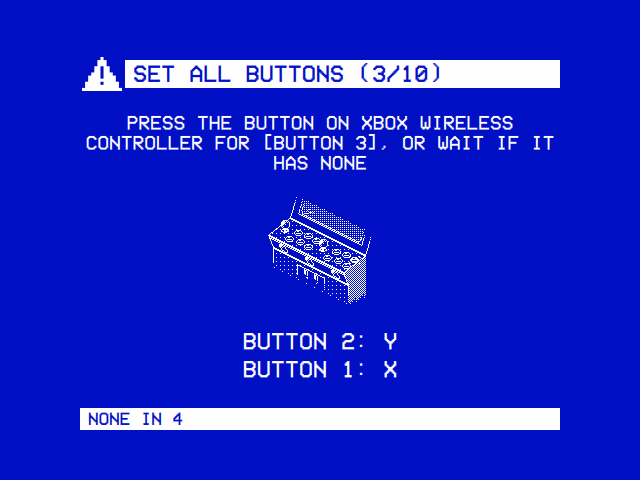
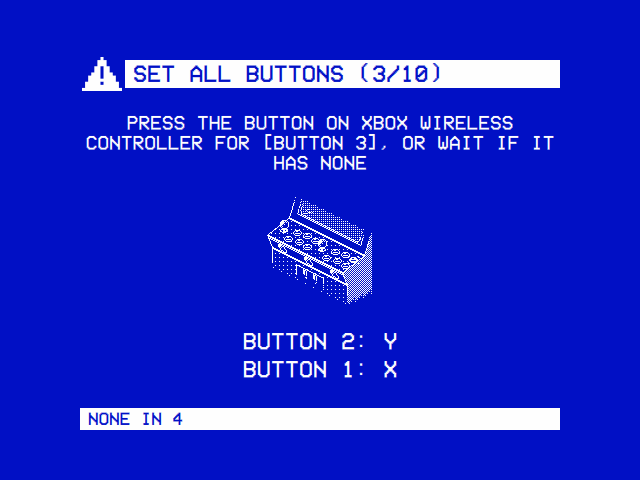
feat: Arcade Buttons dithers the cabinet's side beside the monitor too
The dithered right side of the cabinet now goes up beside the monitor as
well: from the cabinet's front (up the bezel, along the panel's top and
down both fronts) back as far as the bezel's top, fading out above and
below with the rest of the cabinet. The drawing is 105 by 107 cells, and
the page's lines leave it the two more columns.

The two Arcade Buttons screenshots are retaken; Controls describes the
side beside the monitor.

Changed region(s): [[0.4062, 0.4062, 0.5938, 0.625]]

diff --git a/views/Components/ArcadePanelArt.js b/views/Components/ArcadePanelArt.js
@@ -10,9 +10,9 @@
 // buttons, 1P START, COIN and 2P START. Behind the panel the monitor leans
 // back, its bezel round the foot of the screen; under it the cabinet's front
 // goes straight down past the top of the coin door. The cabinet's right side,
-// from the panel's end down, is shaded in a dither. The cabinet fades out
-// above and below. One player's side can be lit: a button, COIN or that
-// player's START.
+// beside the monitor, the panel's end and the front, is shaded in a dither.
+// The cabinet fades out above and below. One player's side can be lit: a
+// button, COIN or that player's START.
 //
 // draw() lays it out on a grid of cells, one art pixel each: 0 for none
 // (the ground the host draws on shows), 1 for ink, 2 for the ground drawn
@@ -21,7 +21,7 @@
 // (from above) has more of it.
 
 // The grid.
-var width = 103
+var width = 105
 var height = 107
 
 // Isometric 2:1: along the panel (u, the players' left to right) a cell
@@ -411,15 +411,16 @@ function draw(lit, player) {
     drawCabinet(grid)
 
     // The panel's front, in shade, with the strip along its top; the
-    // cabinet's right side, from the top's back edge down past the panel
-    // front's foot to the cabinet front's, in a dither and no outline, fading
-    // out below with the front (a cell's height: of the point of the side it
-    // shows); the top over them.
+    // cabinet's right side, from its front (up the monitor's bezel, along the
+    // top and down both fronts) back as far as the bezel's top, in a dither
+    // and no outline, fading out above and below with the cabinet (a cell's
+    // height: of the point of the side it shows); the top over them.
     var front = face.quad(0, L, 0, 1)
     grid.paint(front, ground)
     grid.edge(front)
     grid.line(face.at(0, strip / frontHeight), face.at(L, strip / frontHeight), 1)
-    var flank = polygon([face.at(L, 0), deck.at(L, 1), project(L, D, -frontHeight - below), low.at(L, 1), face.at(L, 1)])
+    var flank = polygon([face.at(L, 0), deck.at(L, 1), bezel.at(L, 1), project(L, D + lean, -frontHeight - below),
+                         low.at(L, 1), face.at(L, 1)])
     var corner = project(L, 0, 0)
     grid.paint(flank, half)
     grid.tag(flank, function(x, y) { return corner.y - (x - corner.x) / 2 - y })

diff --git a/docs/wiki/Controls.md b/docs/wiki/Controls.md
@@ -321,7 +321,7 @@ The d-pad is `D-PAD ▲ ▼ ◄ ►` on all of them, the sticks `L STICK` and `R
 
 A pad's own page has **Arcade Buttons**: which of its buttons is each of an arcade cabinet's, **Button 1** to **Button 8**, **Coin** and **Start**. The [Arcade](https://github.com/mehmetraif/OSD-OS/wiki/Arcade#players-and-buttons) module gives each player's to MAME and FinalBurn Neo alike as a game starts, so that a game's button 1 is the same button in both, and on any pad. The joystick is always the D-pad and the left stick.
 
-Beside the lines is a two-player arcade cabinet's control panel, drawn in the theme's two colours with a little of the cabinet round it: on its top each player has a ball-top stick and six buttons in two rows of three that follow the fingers, player 1 on the left and player 2 on the right; its top rises towards the back, and its front leans back as it goes down, with three round buttons on it under a chrome strip: **1P Start**, **Coin** and **2P Start**. Behind it the monitor leans back, its foot showing with the screen's lines, and under it the cabinet's front goes straight down past the coin door's two coin entries; the cabinet's right side, from the panel's end down, is shaded in a dither, and the cabinet fades out above and below. The line's input is lit and framed on the side of the player the pad plays as (player 2's on the right, any other's on the left; [Players](https://github.com/mehmetraif/OSD-OS/wiki/Controls#players)), Coin in the middle for both; Button 7 and 8 aren't on a six-button panel. Set All lights the one it asks for, and Test Buttons the one the last press is, on a smaller panel (none on a 240-line picture, which has no room for it).
+Beside the lines is a two-player arcade cabinet's control panel, drawn in the theme's two colours with a little of the cabinet round it: on its top each player has a ball-top stick and six buttons in two rows of three that follow the fingers, player 1 on the left and player 2 on the right; its top rises towards the back, and its front leans back as it goes down, with three round buttons on it under a chrome strip: **1P Start**, **Coin** and **2P Start**. Behind it the monitor leans back, its foot showing with the screen's lines, and under it the cabinet's front goes straight down past the coin door's two coin entries; the cabinet's right side, beside the monitor and down past the panel's end, is shaded in a dither, and the cabinet fades out above and below. The line's input is lit and framed on the side of the player the pad plays as (player 2's on the right, any other's on the left; [Players](https://github.com/mehmetraif/OSD-OS/wiki/Controls#players)), Coin in the middle for both; Button 7 and 8 aren't on a six-button panel. Set All lights the one it asks for, and Test Buttons the one the last press is, on a smaller panel (none on a 240-line picture, which has no room for it).
 
 | Row | What it does |
 |---|---|
